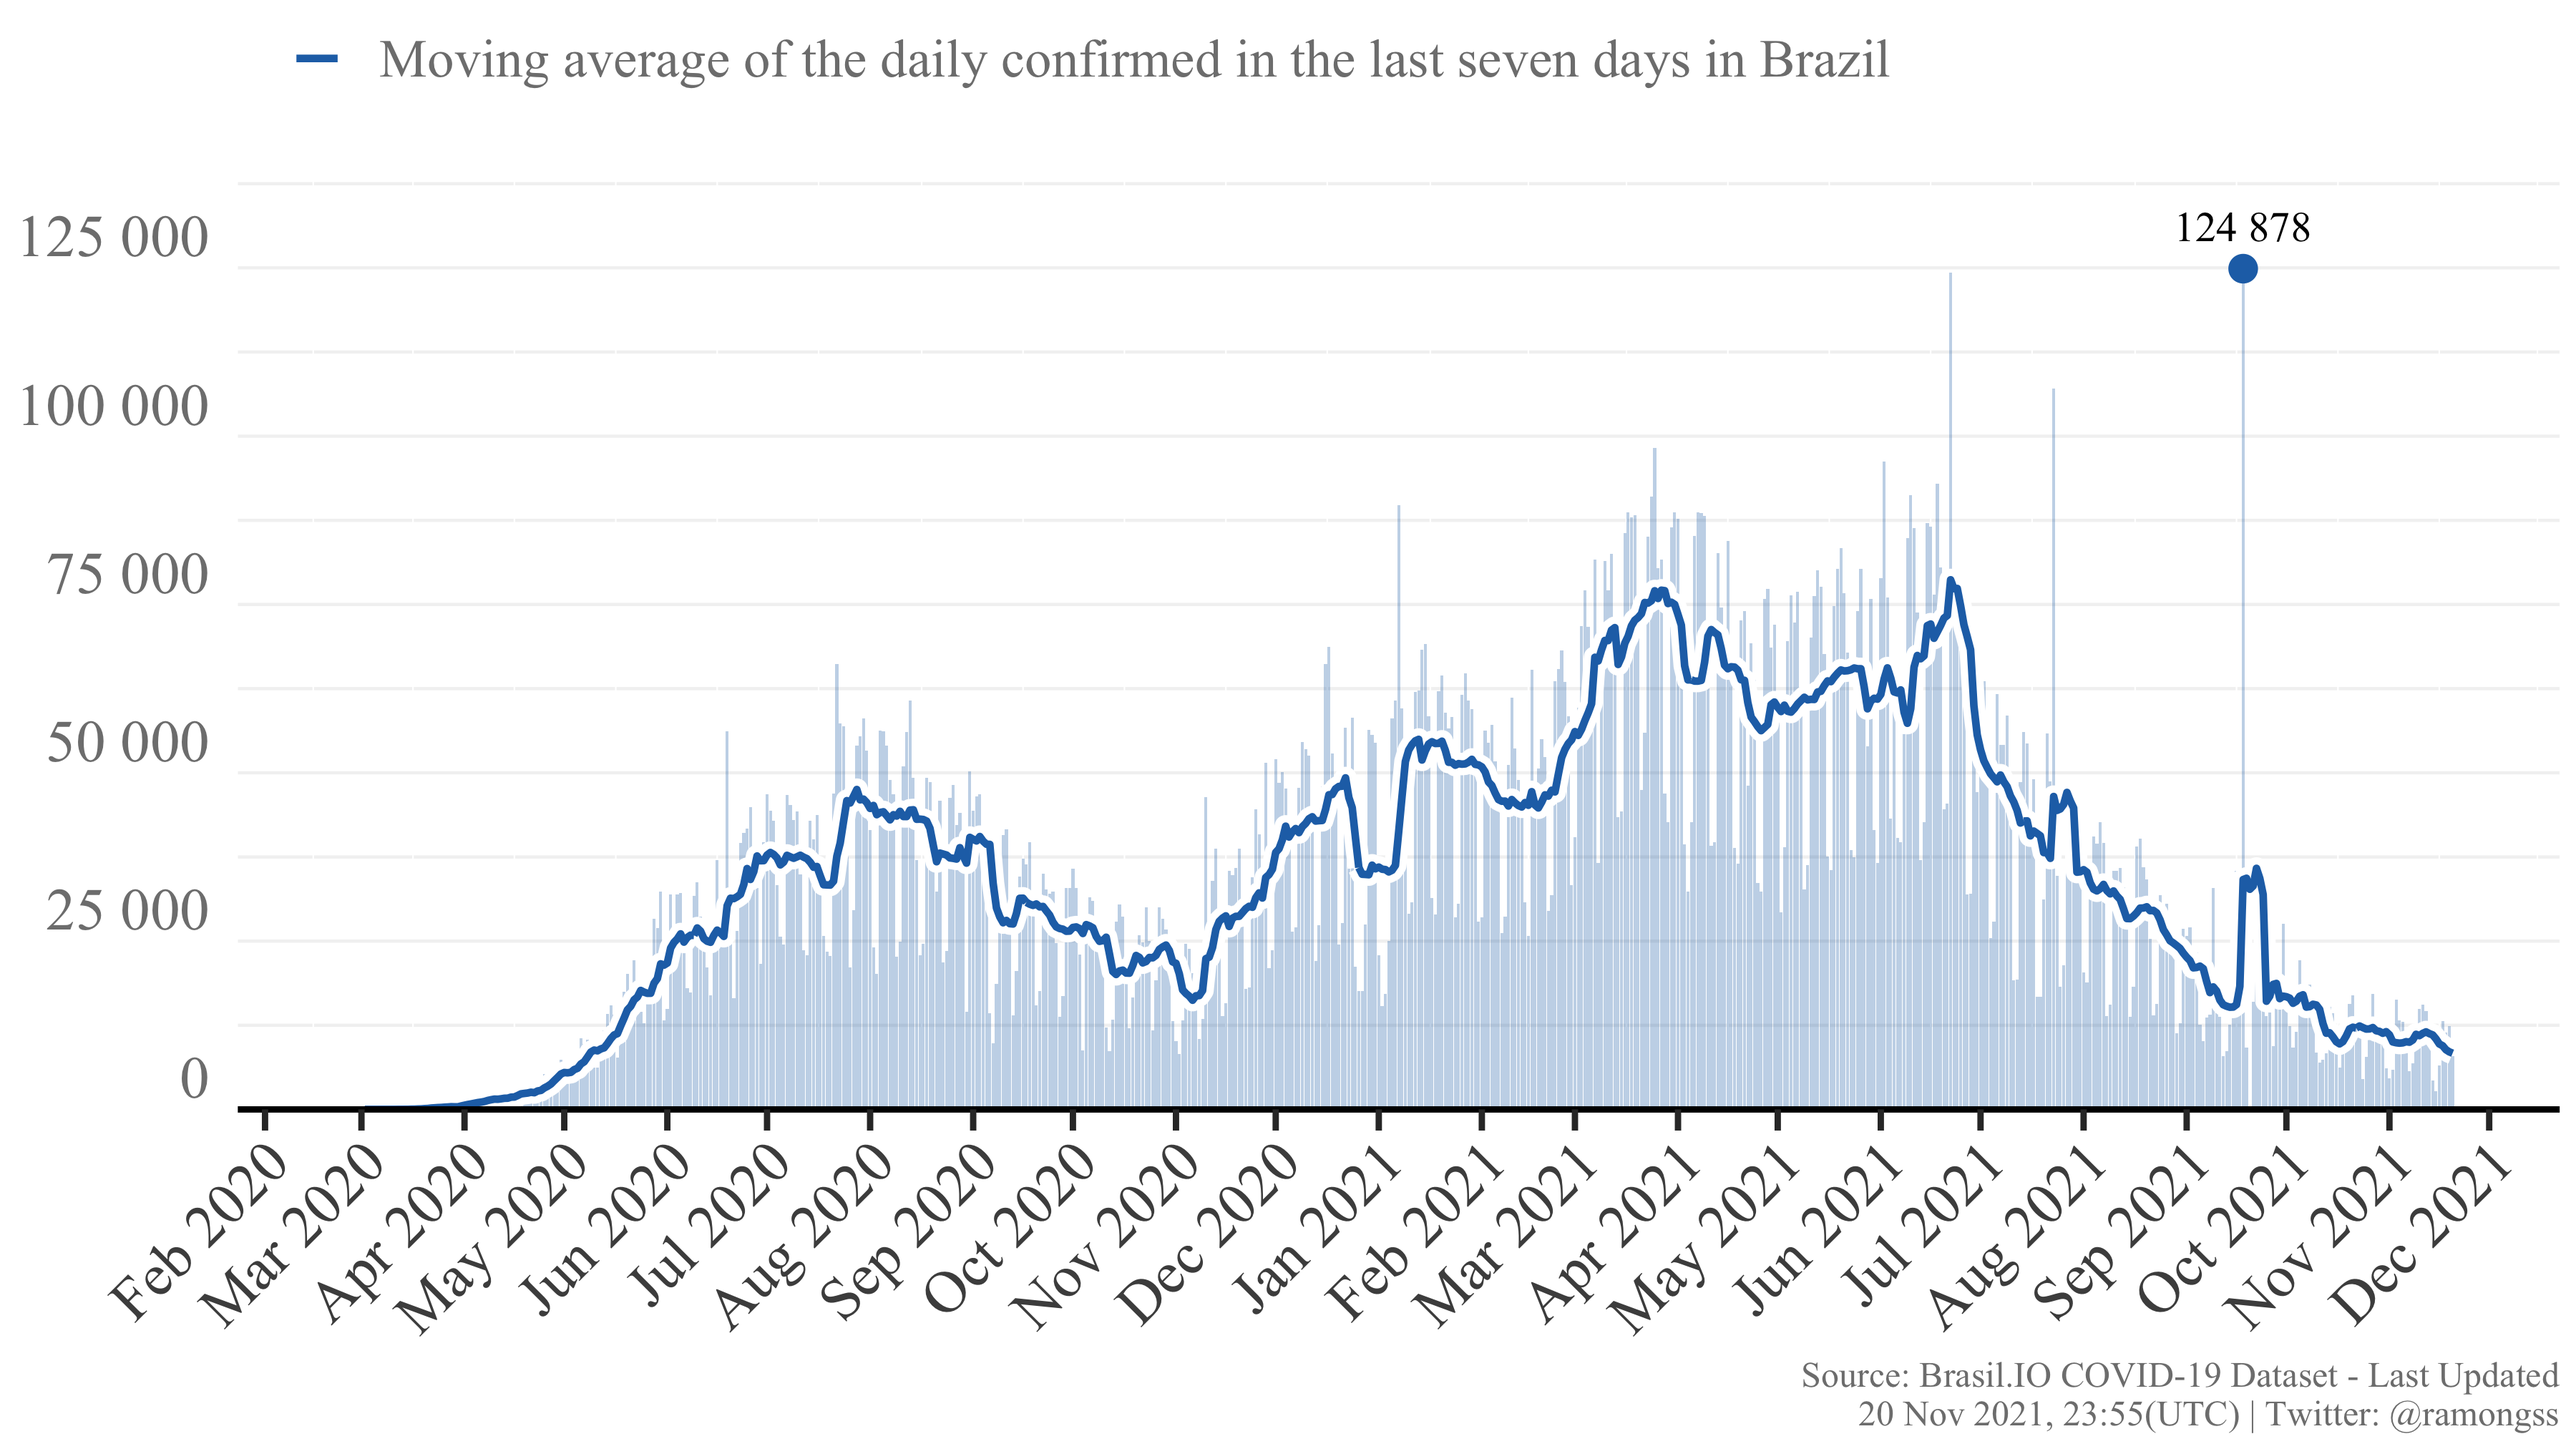
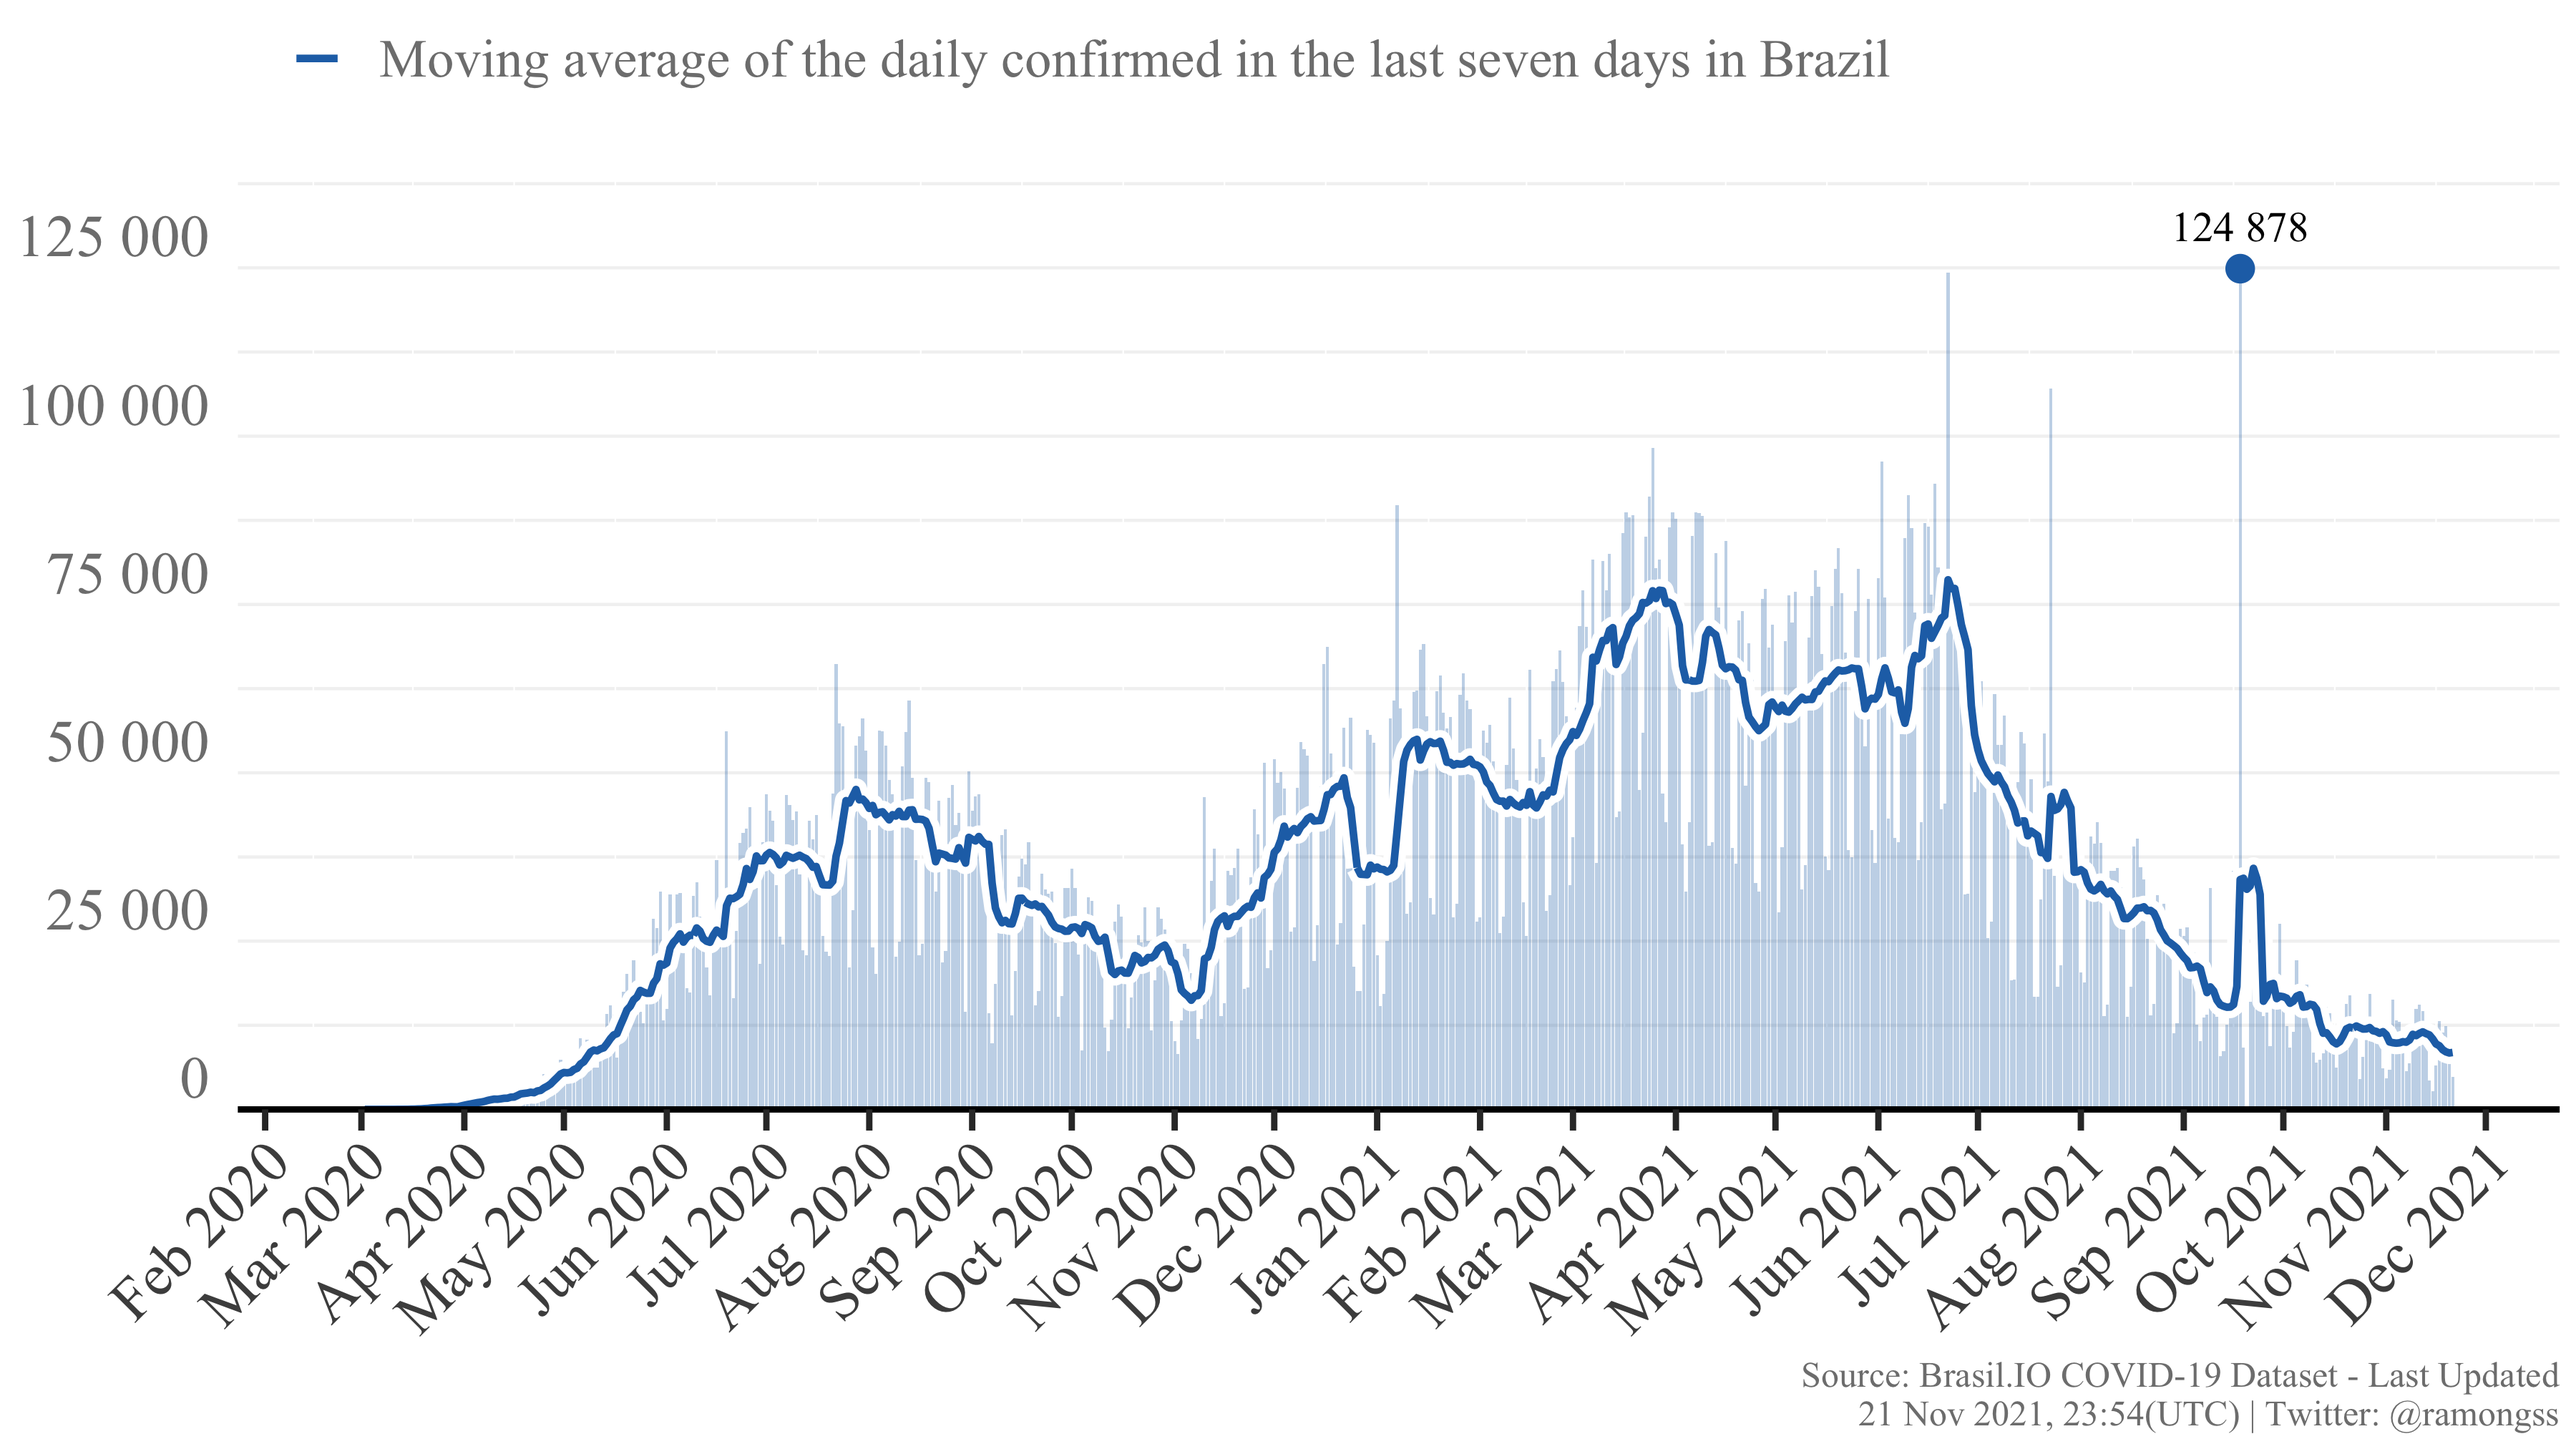
Re-build README.Rmd

diff --git a/README.md b/README.md
@@ -27,8 +27,8 @@ download_brasilio_table <- function(dataset = "covid19", table_name){
 
 ## COVID-19 Confirmed cases
 
-Currently, Brazil has a total of **22,016,170** confirmed cases at **20
-Nov, 2021**, with **7,953** new confirmed cases. The daily maximum
+Currently, Brazil has a total of **22,021,265** confirmed cases at **21
+Nov, 2021**, with **4,826** new confirmed cases. The daily maximum
 incidence was **124,878** confirmed cases at **18 Sep, 2021**. Here
 follows the Figure showing the confirmed case incidence as the bars, and
 the line as the moving average of the last 7 days.
@@ -37,11 +37,11 @@ the line as the moving average of the last 7 days.
 
 ## COVID-19 Deaths
 
-Currently, Brazil has a total of **612,847** deaths at **20 Nov, 2021**,
-with **201** new deaths. The daily maximum deaths incidence was
-**4,148** deaths at **08 Apr, 2021**. Here follows the Figure showing
-the deaths incidence as the bars, and the line as the moving average of
-the last 7 days.
+Currently, Brazil has a total of **612,945** deaths at **21 Nov, 2021**,
+with **92** new deaths. The daily maximum deaths incidence was **4,148**
+deaths at **08 Apr, 2021**. Here follows the Figure showing the deaths
+incidence as the bars, and the line as the moving average of the last 7
+days.
 
 ![COVID-19 Deaths](figures/deaths.png)
 
@@ -49,4 +49,4 @@ the last 7 days.
 
 This page is daily updated automatically using Github Actions.
 
-*Last update: 20 Nov 2021, 23:56 (UTC).*
+*Last update: 21 Nov 2021, 23:54 (UTC).*
